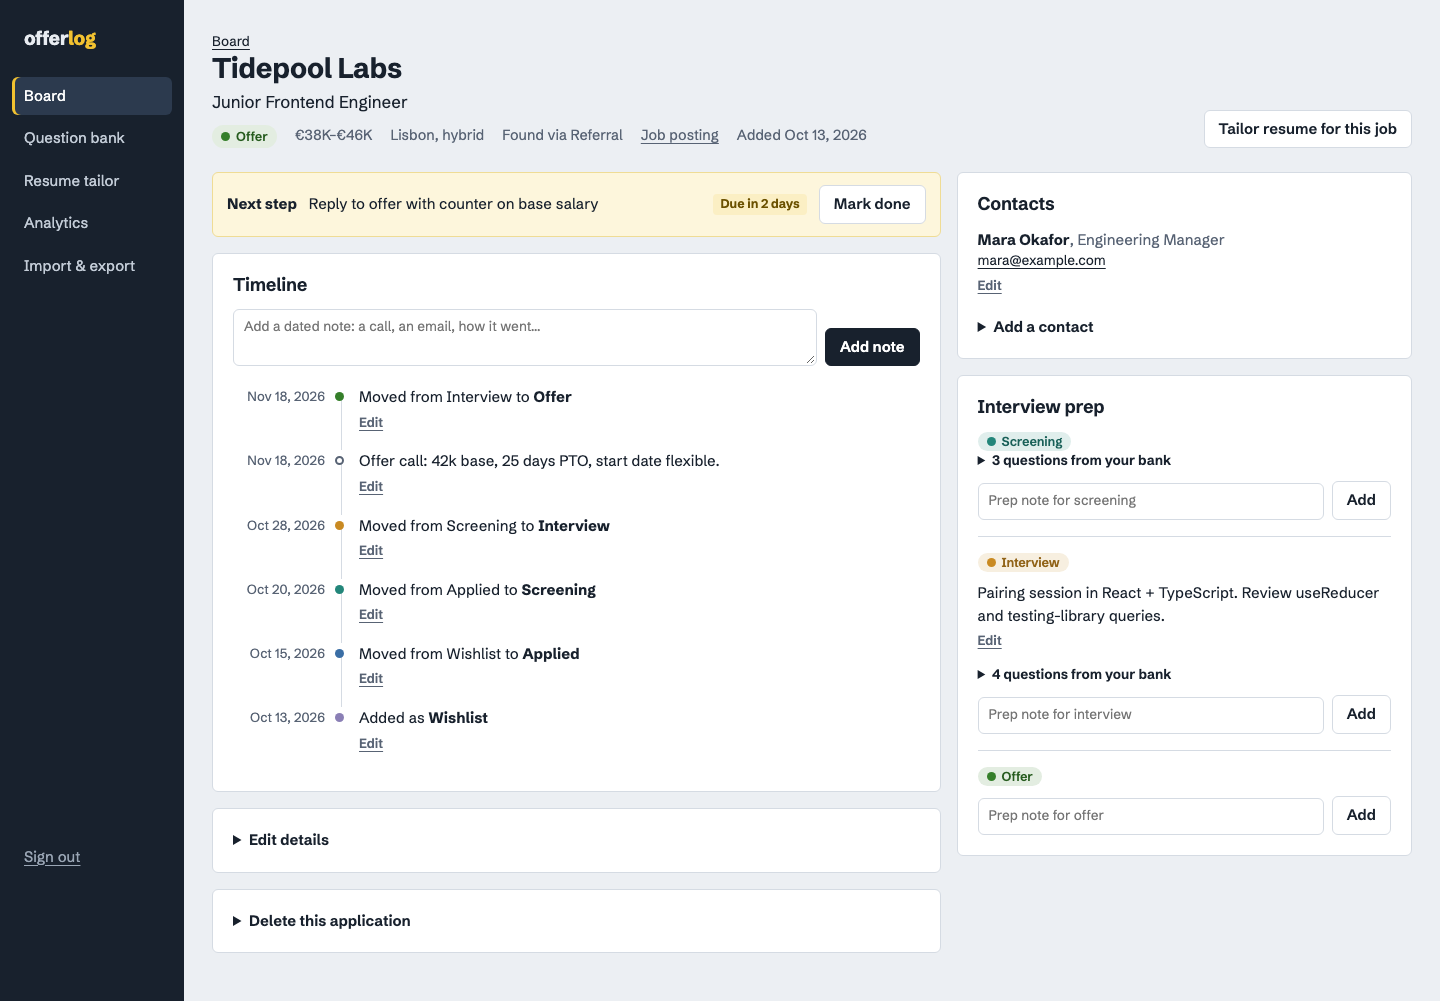
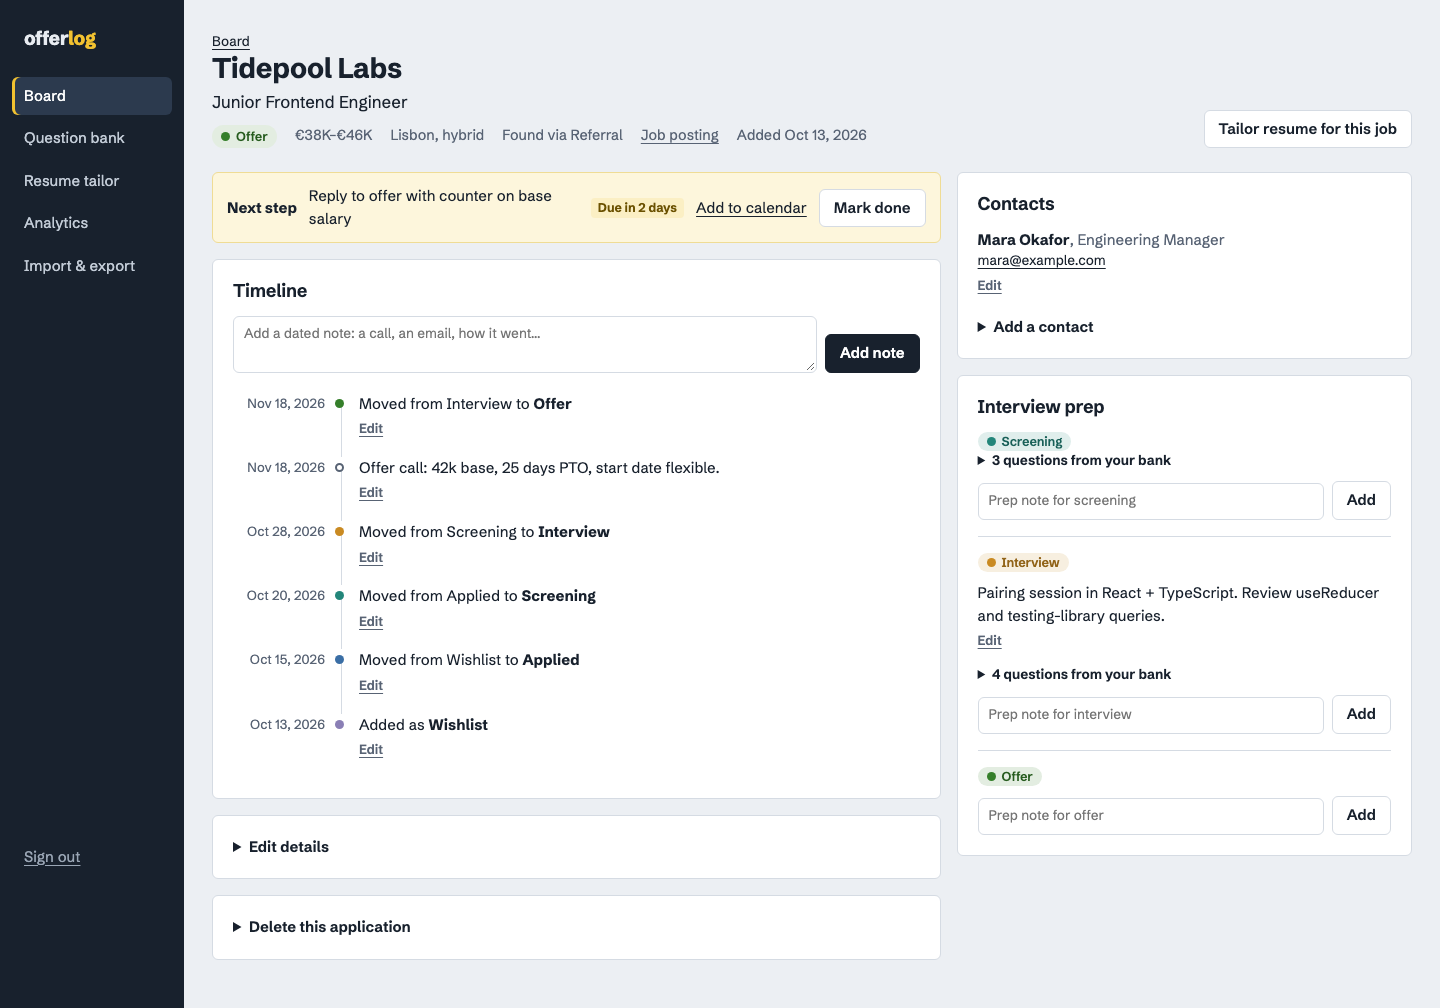
Docs: calendar export in README and CHANGELOG; refresh application and import screenshots

diff --git a/README.md b/README.md
@@ -55,6 +55,7 @@ Behind a reverse proxy, forward the original `Host` (or `X-Forwarded-Host`) and 
 - **Resume tailor**: paste a job description (or load one saved on an application) and your resume as plain text or Markdown. A local, deterministic report shows which skills and tools from the posting your resume covers or misses, seniority words on both sides, and repeated posting words you never use. With `ANTHROPIC_API_KEY` set, you can also ask Claude to rewrite specific bullet points toward the posting; it is told not to invent experience. Your resume text is remembered in this browser only (`localStorage`); it is not stored in the database or included in exports.
 - **Analytics**: funnel with stage-to-stage conversion, response rate and median time to reply per source, and applications per week against a weekly goal you set.
 - **Import and export**: full JSON backup and restore, and CSV for spreadsheets (comma or semicolon separated). Imports are validated and all-or-nothing.
+- **Calendar export**: download your open next steps as an iCalendar (`.ics`) file from Import & export, or one next step with **Add to calendar** on its application, and import it into any calendar app that reads `.ics`. Each is an all-day event on its due date with a 9:00 reminder, the role and stage as its description and the posting link. Event IDs stay the same across downloads, so calendars that match events by ID update them on a re-import; a step marked done is not removed from your calendar. Steps on rejected or ghosted applications are left out.
 - **Single-user login** with a hashed password, an HttpOnly session cookie and rate-limited sign-in.
 - **Light and dark theme** following your system setting, a phone layout where board columns snap one at a time, keyboard access throughout (skip link, visible focus, a stage menu on every card), and no animation when reduced motion is requested.
 
@@ -76,7 +77,7 @@ Behind a reverse proxy, forward the original `Host` (or `X-Forwarded-Host`) and 
 - **Stage history is the source of truth.** Each stage change writes a row to `events`. An application counts as sent from its first move past wishlist (rejected and ghosted imply it was sent). The funnel counts the furthest stage each application reached, so skipping a stage counts as passing it. A reply is a move to screening, interview, offer or rejected; ghosted is not a reply. Time to reply is measured from the applied event, so an application logged straight into screening counts as replied but has no reply time. The weekly chart counts each application once, in the week it was sent. See `src/lib/analytics.ts`. Corrections keep the history consistent (`setEventDate` and `removeEvent` in `src/lib/data.ts`): a redated change cannot jump past its neighbours, and after a removal the following entries are re-linked and a move straight back is dropped too.
 - **Keyword gaps** (`src/lib/keywords.ts`) match a curated vocabulary of about 120 skills and tools, with aliases (`k8s` counts as Kubernetes, `Postgres` as PostgreSQL) and symbol-aware word boundaries so `Java` does not match inside `JavaScript` and `C++`, `C#` and `.NET` work. No network call, no model: the same input always gives the same report.
 - **AI rewrite** (`src/lib/ai.ts`) sends only the job description, the bullets you paste and the list of posting keywords your resume misses to the Anthropic Messages API (`claude-opus-5-5`, with server-side fallback on refusals). It only runs when you press the button and the key is set.
-- **Security**: the password is checked against an scrypt hash with a constant-time compare. Sessions are random 256-bit tokens; only an HMAC of each, keyed by the password hash, is stored, so changing `OFFERLOG_PASSWORD_HASH` signs out every session. The cookie is HttpOnly and `SameSite=Lax`. Failed sign-ins are limited to 5 per client (keyed on the last `X-Forwarded-For` hop, the one your proxy adds) and 30 overall per 15 minutes. Every server action and route except sign-in and the health check checks the session, and every one validates its input; Next.js rejects server action requests whose `Origin` does not match the host. CSV exports neutralise spreadsheet formulas and are sent with `Cache-Control: no-store`. Every response forbids framing and MIME sniffing. CI fails on a moderate or worse advisory in a runtime dependency.
+- **Security**: the password is checked against an scrypt hash with a constant-time compare. Sessions are random 256-bit tokens; only an HMAC of each, keyed by the password hash, is stored, so changing `OFFERLOG_PASSWORD_HASH` signs out every session. The cookie is HttpOnly and `SameSite=Lax`. Failed sign-ins are limited to 5 per client (keyed on the last `X-Forwarded-For` hop, the one your proxy adds) and 30 overall per 15 minutes. Every server action and route except sign-in and the health check checks the session, and every one validates its input; Next.js rejects server action requests whose `Origin` does not match the host. CSV exports neutralise spreadsheet formulas; exports, including calendar files, are sent with `Cache-Control: no-store`, and text in calendar files is escaped so it cannot add events or properties. Every response forbids framing and MIME sniffing. CI fails on a moderate or worse advisory in a runtime dependency.
 
 ## Development
 
@@ -103,7 +104,7 @@ offerlog is not the only way to track a job search, and often not the best one. 
 | Saving postings from job boards in one click, plus hosted resume tools | **Huntr** or **Teal**: hosted job trackers with browser extensions. Your data lives in their service, under their account and pricing terms. |
 | A detailed resume-to-posting match score | A dedicated scanner such as **Jobscan**. offerlog's tailor is a fixed vocabulary of about 120 skills and tools plus seniority words; it does not imitate an applicant tracking system. |
 
-Pick offerlog when you want the data on your own machine, analytics computed from what actually happened (every stage change is dated and can be corrected), interview prep tied to each stage, and a resume check that never leaves your computer, and you are fine running a small Node or Docker app. What it does not have: a browser extension, email or calendar integration, a mobile app (the web app works on phones), or more than one user.
+Pick offerlog when you want the data on your own machine, analytics computed from what actually happened (every stage change is dated and can be corrected), interview prep tied to each stage, and a resume check that never leaves your computer, and you are fine running a small Node or Docker app. What it does not have: a browser extension, email integration, a calendar that syncs by itself (next steps export as an `.ics` file), a mobile app (the web app works on phones), or more than one user.
 
 ## Contributing
 
@@ -114,7 +115,7 @@ Bug reports, ideas and pull requests are welcome. [CONTRIBUTING.md](CONTRIBUTING
 Not built yet:
 
 - Saved filters and sorting options on the board (today: a quick text filter).
-- Calendar export (ICS) for next-step reminders and interviews.
+- A calendar subscription URL that stays in sync (today: download an `.ics` file and import it again after changes).
 - A user-editable keyword vocabulary for the resume tailor.
 - A manual light/dark switch (today the theme follows the system setting).
 - Keep the page when a delete, "Mark done" or weekly-goal save fails on a dropped connection (today these show the in-app error page and **Try again** brings the page back; reload to see whether the action went through).

diff --git a/CHANGELOG.md b/CHANGELOG.md
@@ -4,7 +4,29 @@ All notable changes to this project are documented here. The format follows [Kee
 
 ## [Unreleased]
 
-Latest, launch round: making the repository presentable and honest for a first visitor. The README quickstart was followed literally on a fresh clone from GitHub (clone, `npm ci --ignore-scripts`, hash a password, build, start, sign in, load demo data, open every page): it works as written.
+Latest, feature round: calendar export. Using the demo board, the "Up next" reminders only existed inside offerlog, so a phone screen due tomorrow was easy to miss unless the app was open; calendar export was the top item on the roadmap that needs no new data.
+
+### Added
+
+- **Calendar export (.ics)**: **Download next steps (.ics)** on Import & export, and **Add to calendar** next to an application's next step (`/api/export?format=ics`, optionally `&id=<application>`; same session check and `no-store` as the other exports; 400 for a malformed id, 404 when that application has no open dated next step). Each open next step with a due date becomes an all-day event (`DTSTART`/`DTEND` as dates, so no time-zone shifts) with a 9:00 display reminder, the role and stage as its description, the posting link as `URL`, and `TRANSP:TRANSPARENT` so it does not block the day. Rejected and ghosted applications are left out, as on the board's Up next strip. UIDs are stable per application (`offerlog-application-<id>-next-step`), so calendars that match by UID update an event on re-import. Written by `nextStepsIcs` in `src/lib/ics.ts` (RFC 5545 escaping, CRLF, folding at 75 octets without splitting a UTF-8 character).
+- Tests: `src/lib/ics.test.ts` (event fields, filtering, empty calendar, month/year/leap-day ends, escaping that cannot add properties or events, folding of multi-byte text); the smoke test clicks **Add to calendar** and reads the downloaded file. The demo export and a file with commas, semicolons, backslashes, newlines and long Japanese/French text were also parsed with the Python `icalendar` library: every field round-tripped exactly.
+
+### Fixed
+
+- Security: a link containing a newline or tab, such as `https://x.example/a<newline>BEGIN:VEVENT`, passed validation because the URL parser silently drops those characters, and was stored as typed. In a calendar file it would have added lines of its own. `safeUrl` (`src/lib/validate.ts`) now refuses control characters, and the calendar writes the parser's one-line `href` in any case, for rows saved earlier.
+
+### Changed
+
+- README: calendar export under Features; the roadmap item is now a calendar subscription URL that stays in sync; the comparison no longer says there is no calendar integration at all. Screenshots of the application page (light and dark) and Import & export regenerated.
+
+### Notes for the next agent
+
+- Not built: a subscription feed. Calendar apps cannot send the session cookie, so it would need a secret per-feed token in the URL (and a way to rotate it), and Google Calendar cannot reach a server bound to `127.0.0.1` anyway. Re-importing a file does not remove events for steps marked done.
+- Not checked: importing the file into Google Calendar, Apple Calendar or Outlook themselves (no accounts here); the format was checked with a parser only.
+- The Codex review of this round could not run (usage limit); the control-character link bug above was found by hand while reviewing the URL line.
+- Still open from earlier rounds: the AI rewrite is only tested with a mocked client, delete/"Mark done" buttons show the in-app error page when offline (roadmap), the social preview image needs a manual upload, private vulnerability reporting is off, no manual theme switch, no `script-src` CSP, 4 dev-only drizzle-kit advisories.
+
+Earlier, launch round: making the repository presentable and honest for a first visitor. The README quickstart was followed literally on a fresh clone from GitHub (clone, `npm ci --ignore-scripts`, hash a password, build, start, sign in, load demo data, open every page): it works as written.
 
 ### Added
 
